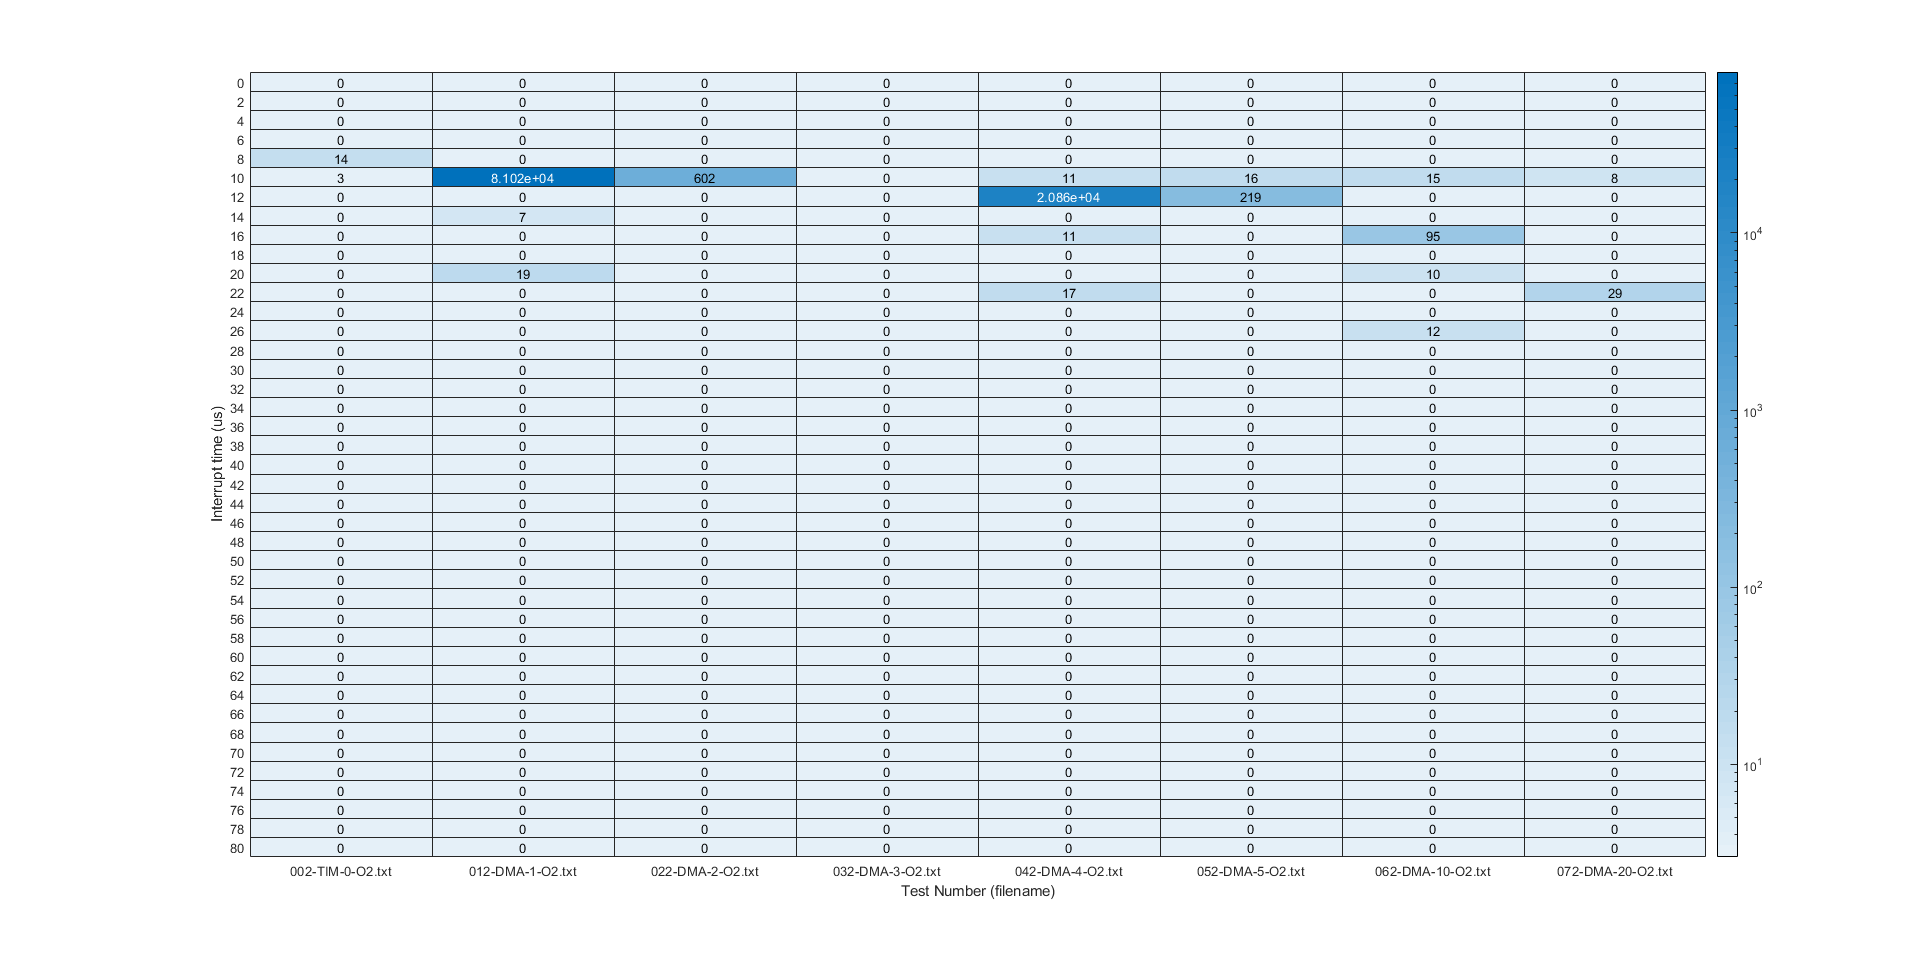
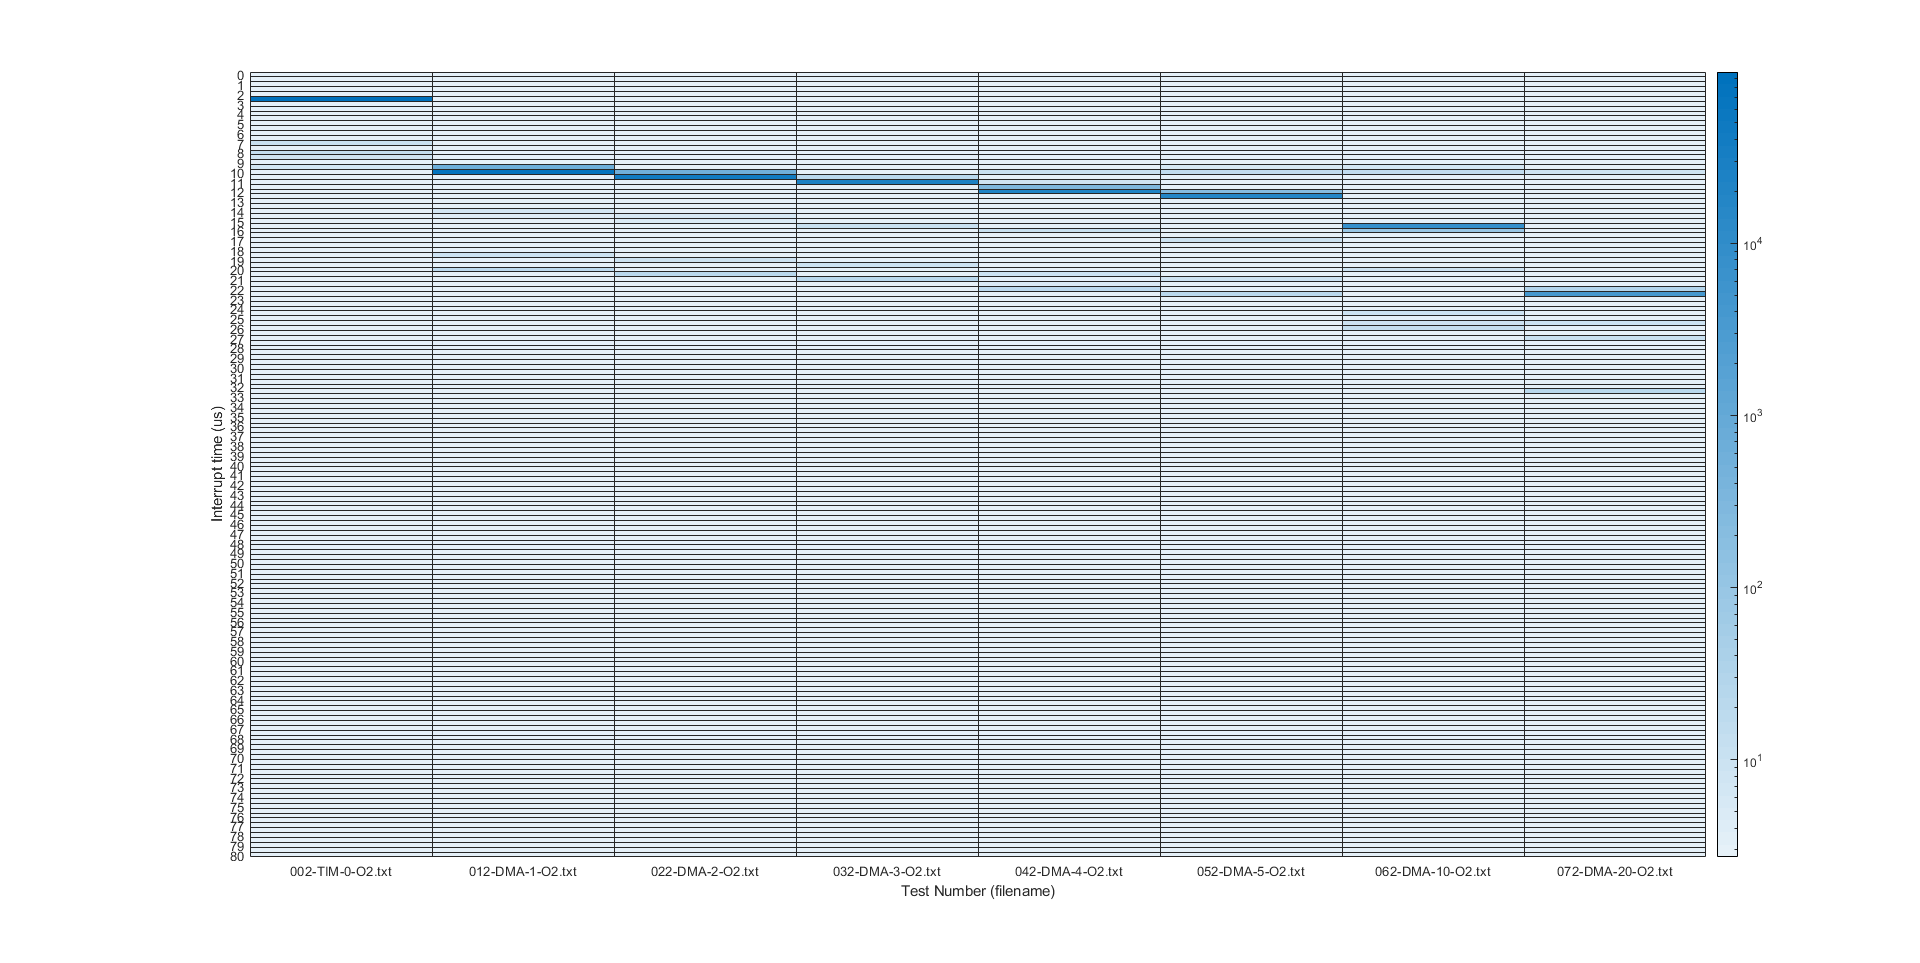
Updates to the README file, and images updated with clearer axis units

Changed region(s): [[0.0938, 0.0623, 0.9062, 0.9034]]

diff --git a/analysis/Stepper-Class/README.md b/analysis/Stepper-Class/README.md
@@ -2,6 +2,8 @@
 
 
 At the time of writing this script, there are two routes that the Stepper class can be desired around.
+>*Note, this script has since been converted into a README file (markdown format) such that it would be visible in github. The actual data used for this anaylsis is NOT stored in github as the size would be too big, hence only the README file is contained within this folder location. However, this README file can be copied into a MATLAB livescript, and it would work as required to generate similar results.
+The location of the data can be modified in the first code call of this, however the source data needs to be a textfile (sourced from a PulseView image), and the textfile needs to contain the timing(s) of the interrupts of the TIM/DMA (I just set a GPIO pin ON/OFF whilst running interrupts).*
 
 
 
@@ -22,7 +24,7 @@ The differences between the two routes is one of MCU hardware utilisation, as we
 
 
 
-This flexibility comes from the sorting within the DMA multiples "PULSES" to transmit per interrupt (i.e. 1, 2, 3, 4, 5, 10, etc.); this obviously takes up a level of processor time.
+This flexibility comes from the sorting within the DMA multiple "PULSES" to transmit per interrupt (i.e. 1, 2, 3, 4, 5, 10, etc.); this obviously takes up a level of processor time. However, reduces the number of times that the interrupt would be triggered, reducing utilisation overall
 
 
 
@@ -54,7 +56,7 @@ Array depths to be anaylsed:
 
 
 
-1, 2, 4, 5, 10, 20, 50
+1, 2, 4, 5, 10, 20, ~~50~~
 
 
 
@@ -486,7 +488,9 @@ Generate figure plot, for the heatmap. Showing Time on the Y-axis, and Data sour
     H = heatmap(histogram_contents(:, tmp).Variables);
     H.YData = seconds( histogram_contents.Time );
     H.XData = histogram_contents.Properties.VariableNames(tmp);
-    H.YDisplayData = num2cell(  nbuckets(1) : 2 : nbuckets(end)  );
+    H.ColorLimits = [1, 11.5];
+    YLabels = string(nbuckets);     YLabels(mod(nbuckets, 1) ~= 0) = " ";
+    H.YDisplayLabels = YLabels;
         % Change resolution of the Ydata, so as to be easier to see in output file
     
     H.ColorScaling = 'log'; %H.GridVisible = 'off';
